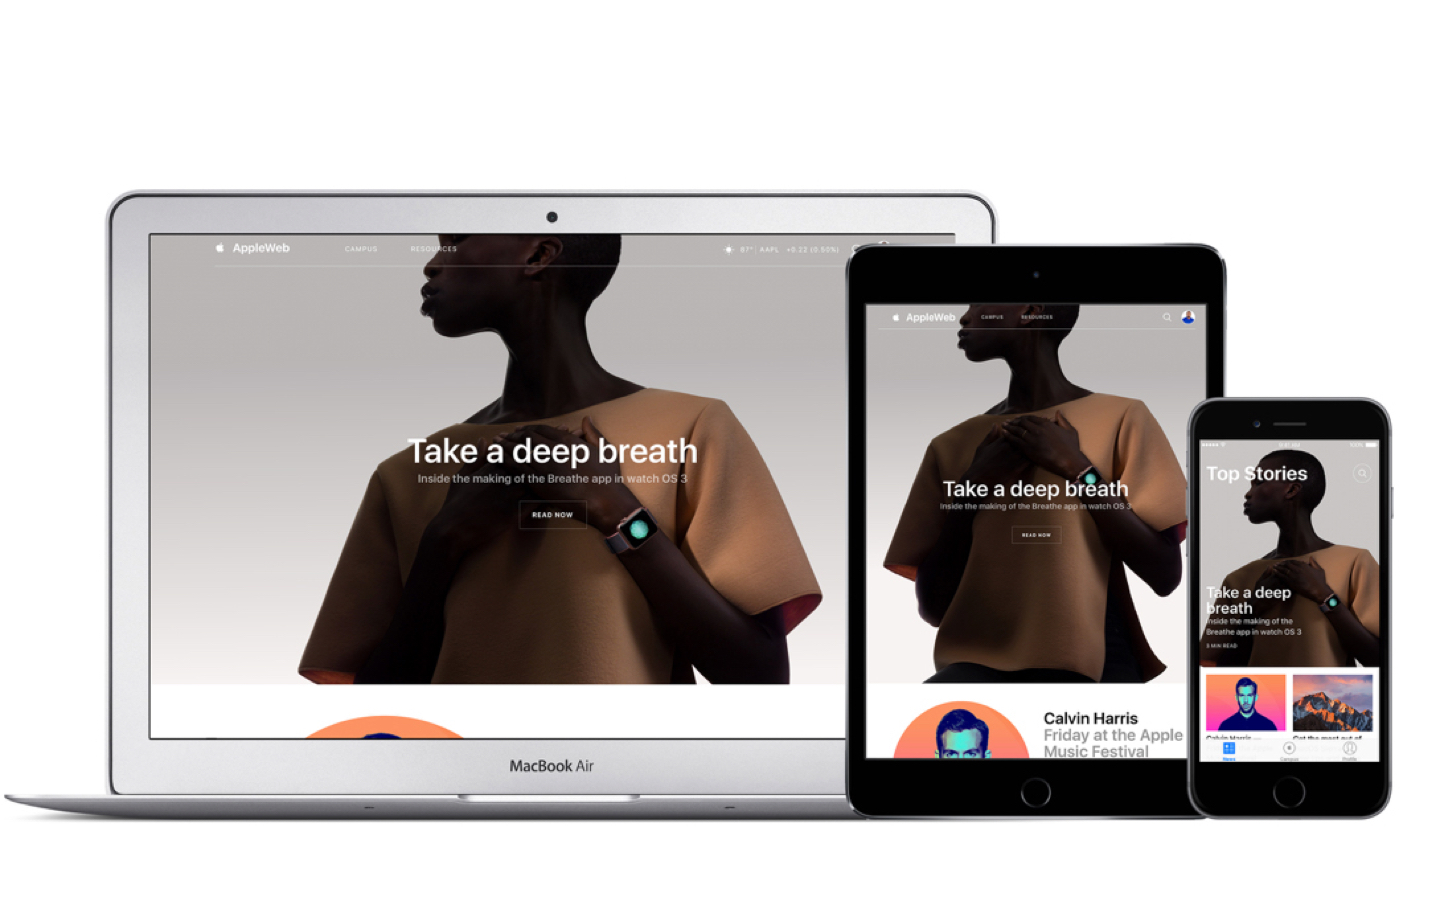
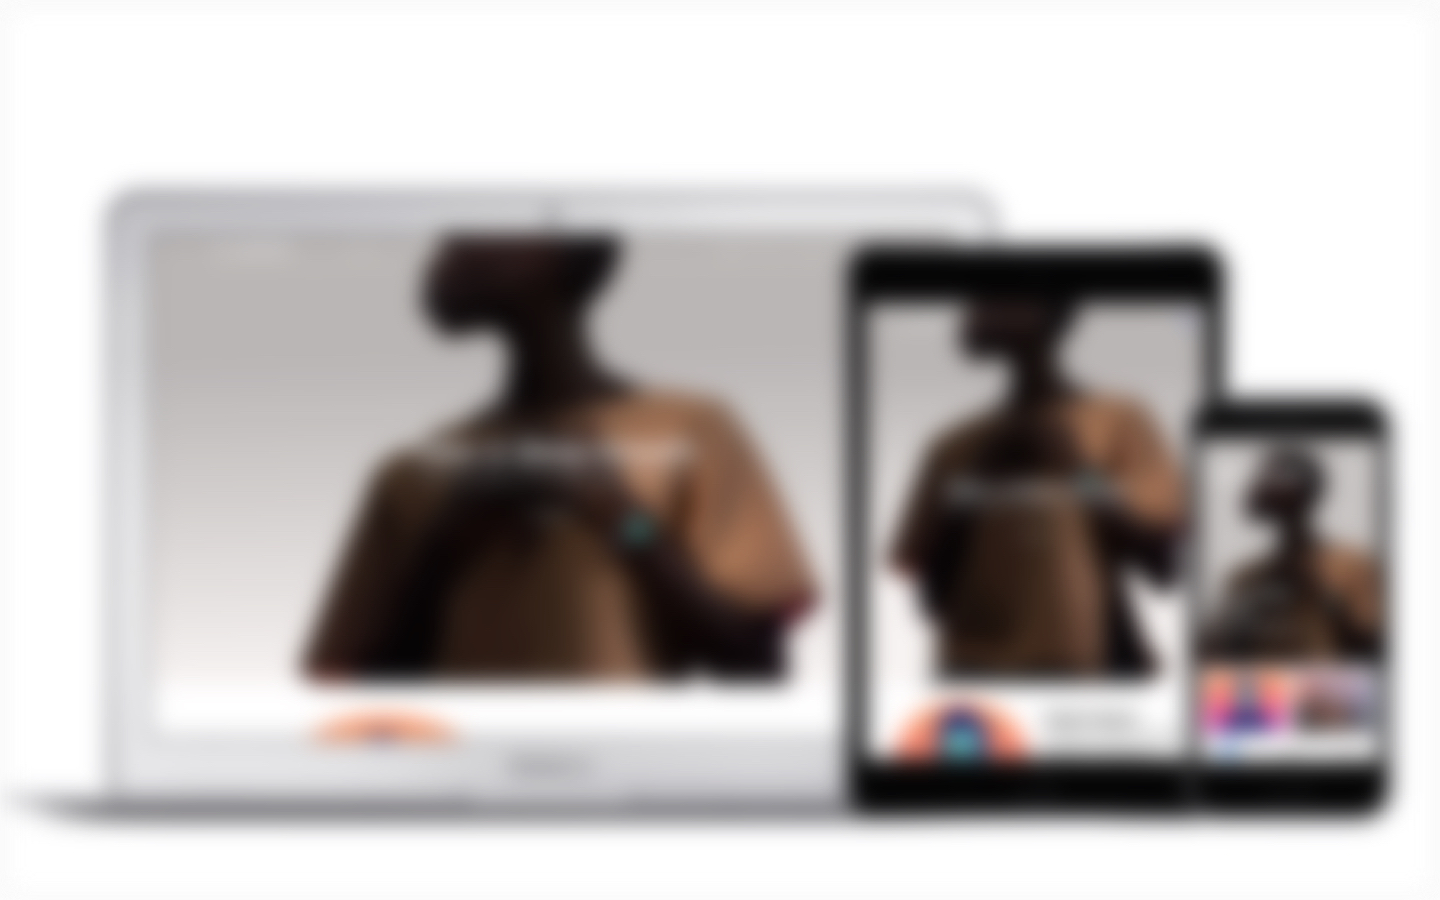
image & text updates for Apple

Changed region(s): [[0.0, 0.1867, 1.0, 0.9333]]

diff --git a/02-Apple.html b/02-Apple.html
@@ -42,19 +42,15 @@
 		<img src="images/fig2-1.jpg" class="imghorizontal">
 	
 	<div class="caption">
-	<p>fig2.1 &#x00B7 Appleweb, internal communication website and app please be in touch to see entire project.</p>
+	<p>fig2.1 &#x00B7 Appleweb (redacted) internal communication website and app please be in touch to see entire project.</p>
 	</div>
 
-	<h3>Core Tools</h3>
-		<p>Maps, menus, and publishingfig. 2a AppleWeb App
-		</p>
-
-	<h3>Visual Language</h3>
-	<p>I attempted to stick to a two-column grid on the widest screen. Failing miserably for sure, but the attempt cleaned up each layout and allowed little room for chaos. Our goal was to push the Apples visual language and integrate the newly imagined SF Sans Typography system. The result was a bold use of regular weights and annoversized clarity towards communication. Our work was blessed by Sir Jonny Ive’s product team as well as Marcom. So we began production.</p>
+	<h3>Visual Language & Core Tools</h3>
+	<p>We attempted to stick to a two-column grid on the widest screen. Failing miserably for sure, but the attempt cleaned up each layout and allowed little room for chaos. Our goal was to push the Apple’s visual language and integrate the new-to-marketing SFSans typography system. The result was a bold use of regular weights and annoversized clarity towards communication. Our work was blessed by Sir Jonny Ive’s product team as well as Marcom. So we began production...</p>
 
 <div class="list">
 			<div class="caption">
-			<p>For more about this project please get in touch via <a href="https://www.linkedin.com/in/augustheffner/" target="New">Linkedin &#x2197</a></p>
+			<p>For more details about this project please <a href="https://www.linkedin.com/in/augustheffner/" target="New">get in touch  &#x2197</a></p>
 			</div>
 		</div>
 
